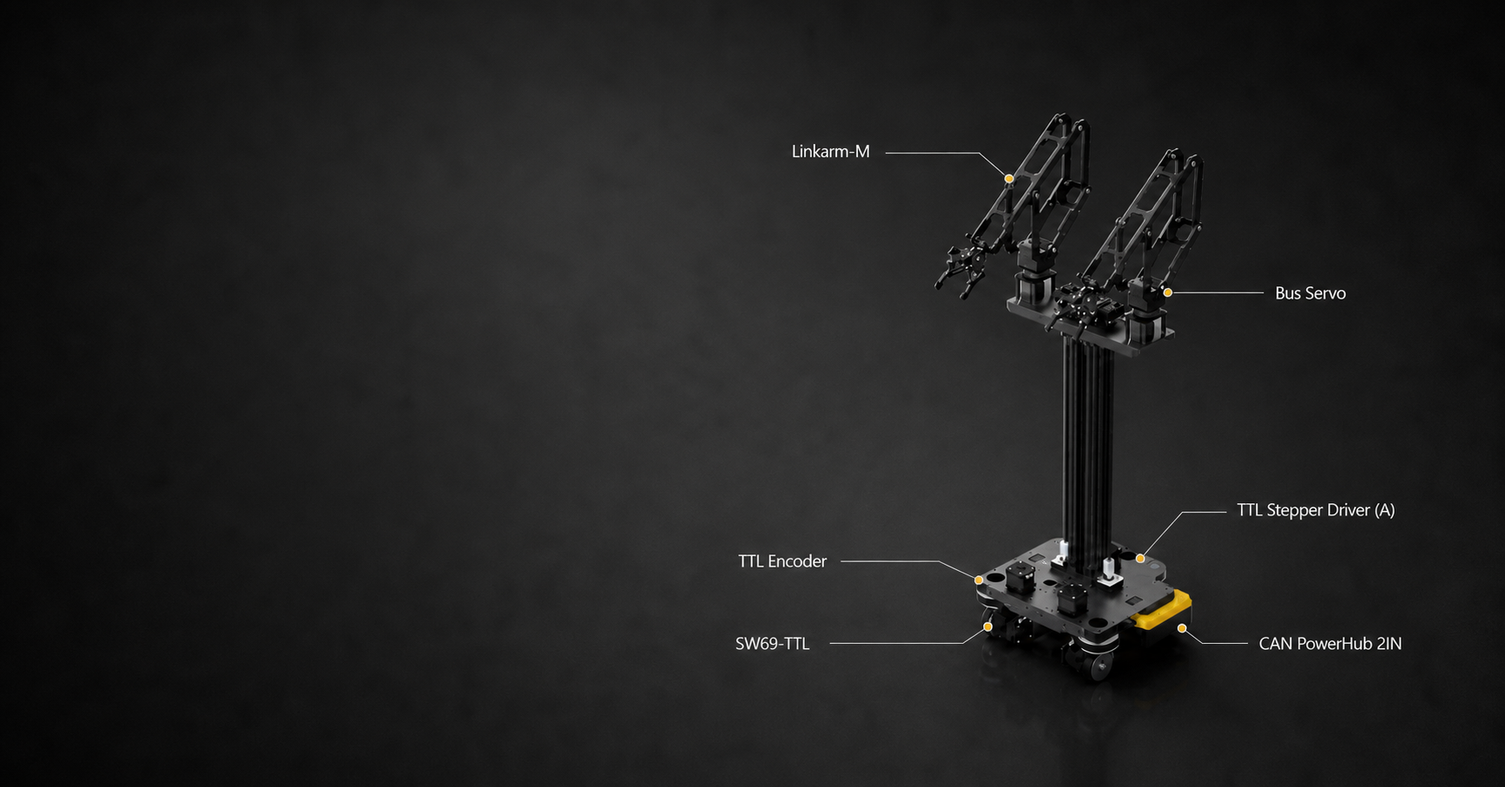
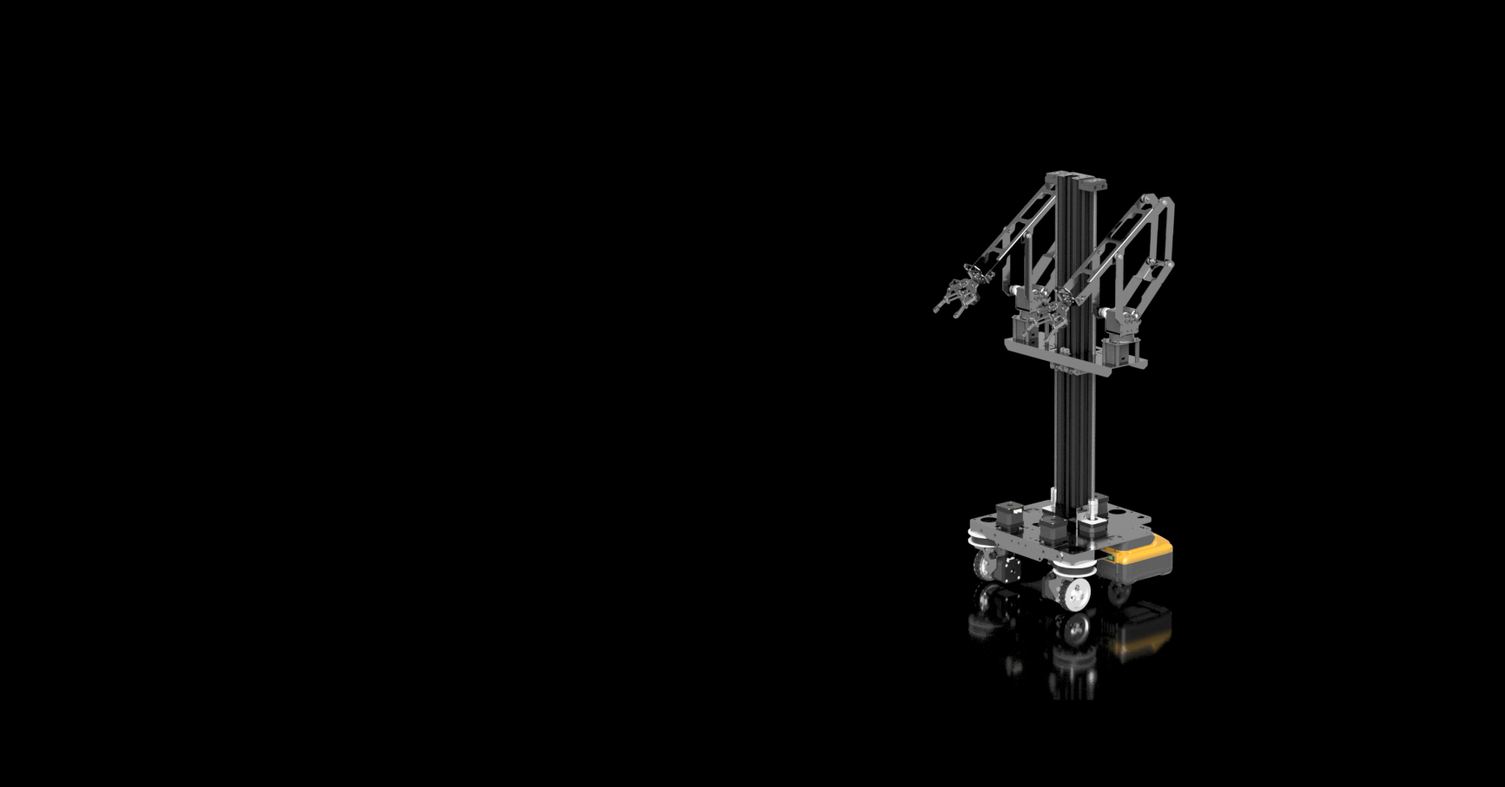
update

diff --git a/public/product-pages/TTL-Adapter-A/en/index.html b/public/product-pages/TTL-Adapter-A/en/index.html
@@ -1,0 +1,198 @@
+<!doctype html>
+<html lang="en">
+<head>
+  <meta charset="utf-8">
+  <meta name="viewport" content="width=device-width, initial-scale=1">
+  <title>TTL Adapter (A) | USB / UART to TTL Bus | LYGION</title>
+  <meta name="description" content="TTL Adapter (A) connects PCs, Raspberry Pi, Jetson, ESP32, and STM32 controllers to single-wire TTL bus servos, encoders, and stepper drivers through USB Type-C or UART.">
+  <meta name="keywords" content="TTL Adapter, TTL bus adapter, TTL servo, TTL Encoder, TTL Stepper Driver, USB to TTL bus, single-wire TTL, grouped power">
+  <link rel="stylesheet" href="../styles.css">
+  <script type="application/ld+json">
+  {
+    "@context": "https://schema.org",
+    "@type": "Product",
+    "name": "TTL Adapter (A)",
+    "brand": { "@type": "Brand", "name": "LYGION" },
+    "description": "A compact USB Type-C and UART adapter for connecting host controllers to single-wire TTL bus devices.",
+    "category": "Robot TTL bus adapter",
+    "image": "https://lygion.ai/product-pages/TTL-Adapter-A/assets/hero.webp"
+  }
+  </script>
+</head>
+<body>
+  <header class="site-header">
+    <div class="container header-inner">
+      <a class="brand" href="https://lygion.ai/en/" aria-label="Return to LYGION home">
+        <span class="brand-mark">LY</span>
+        <span><strong>LYGION</strong><small>Robot hardware and open ecosystem</small></span>
+      </a>
+      <nav aria-label="Page navigation">
+        <a href="#devices">Devices</a>
+        <a href="#connect">Connections</a>
+        <a href="#interfaces">Interfaces</a>
+        <a href="#power-grouping">Power Groups</a>
+        <a href="#specs">Specs</a>
+        <a href="#package">Packages</a>
+        <a class="store-link" href="https://lm36lm9sgacig91fy3g1p7hpkfvgwp7.taobao.com/shop/view_shop.htm" target="_blank" rel="noopener noreferrer">Taobao Store</a>
+        <a class="language-switch" href="../index.html" lang="zh-CN">中文</a>
+        <a class="nav-cta" href="https://lygionorganization.github.io/lygion-wiki/en/reference/bus-devices/ttl-adapter-a/" target="_blank" rel="noopener noreferrer">Product Wiki</a>
+      </nav>
+    </div>
+  </header>
+
+  <main>
+    <section class="hero">
+      <div class="container hero-grid">
+        <div class="hero-copy">
+          <p class="eyebrow">TTL BUS ADAPTER</p>
+          <h1>Connect more devices through one TTL bus</h1>
+          <h3>TTL Adapter (A)</h3>
+          <p class="lead">Connect a host computer or embedded controller through USB or UART. Bus servos, encoders, stepper drivers, and other single-wire TTL devices share one communication link, simplifying robot system integration.</p>
+          <div class="hero-actions">
+            <a class="button primary" href="#connect">Explore connections</a>
+            <a class="button secondary" href="#specs">View specifications</a>
+          </div>
+          <ul class="quick-specs" aria-label="Key specifications">
+            <li><strong>3 Mbps</strong><span>Maximum data rate</span></li>
+            <li><strong>5-25.2 V</strong><span>Wide input voltage</span></li>
+            <li><strong>27 x 35 mm</strong><span>Compact footprint</span></li>
+          </ul>
+        </div>
+        <figure class="hero-media">
+          <img src="../assets/hero.webp" alt="TTL Adapter (A) connected to a TTL bus servo">
+          <figcaption><span>TTL Adapter (A)</span> USB / UART to single-wire TTL bus</figcaption>
+        </figure>
+      </div>
+    </section>
+
+    <section class="proof-strip" aria-label="Product highlights">
+      <div class="container proof-grid">
+        <div><strong>USB Type-C</strong><span>Direct connection for PCs and Linux SBCs</span></div>
+        <div><strong>UART RX / TX</strong><span>For ESP32, STM32, Arduino, and embedded controllers</span></div>
+        <div><strong>Single-wire TTL</strong><span>Connect several compatible bus device types</span></div>
+        <div><strong>USB Debugging</strong><span>Configure supported low-voltage devices over USB</span></div>
+      </div>
+    </section>
+
+    <section id="devices" class="section">
+      <div class="container">
+        <div class="section-heading">
+          <p class="eyebrow">ONE BUS, MORE DEVICES</p>
+          <h2>Designed for a range of TTL bus devices</h2>
+          <p>Any single-wire TTL bus device with compatible protocol and electrical specifications can connect to the host through TTL Adapter (A).</p>
+        </div>
+        <div class="device-grid">
+          <article><span class="device-index">01</span><h3>TTL Bus Servos</h3><p>Control position and speed while reading device feedback.</p><strong>Feetech HLS / STS / SCS series</strong></article>
+          <article><span class="device-index">02</span><h3>TTL Encoders</h3><p>Read joint angle, speed, and encoder status data.</p><strong>Position / speed / status feedback</strong></article>
+          <article><span class="device-index">03</span><h3>TTL Stepper Drivers</h3><p>Add stepper motors to the same control bus.</p><strong>Independent device IDs</strong></article>
+          <article><span class="device-index">04</span><h3>Other TTL Nodes</h3><p>Expand the bus with sensing, actuation, and I/O nodes.</p><strong>One bus for multiple robot modules</strong></article>
+        </div>
+        <figure class="wide-product-media">
+          <img src="../assets/bus-devices.webp" alt="TTL Adapter (A) connected to multiple TTL bus devices">
+          <figcaption>One bus connects servos, encoders, and stepper drivers.</figcaption>
+        </figure>
+      </div>
+    </section>
+
+    <section id="connect" class="section dark-section">
+      <div class="container">
+        <div class="section-heading light-heading">
+          <p class="eyebrow">CONNECT IN TWO STEPS</p>
+          <h2>Reduce robot system complexity</h2>
+          <p>The host does not need a separate wiring path for every device type. One interface can address up to 252 bus devices.</p>
+        </div>
+        <div class="path-grid">
+          <article><span class="path-number">1</span><p class="path-label">HOST SIDE</p><h3>Connect the controller over USB or UART</h3><p>PCs, Raspberry Pi, Jetson, and other Linux SBCs use USB. ESP32, STM32, and Arduino controllers use UART.</p></article>
+          <article><span class="path-number">2</span><p class="path-label">BUS SIDE</p><h3>Control TTL bus devices</h3><p>Assign each device a unique ID and connect a bus supply that matches every device on that power group.</p></article>
+        </div>
+        <div class="platform-row" aria-label="Supported host platforms"><span>PC</span><span>Linux SBC</span><span>Raspberry Pi</span><span>Jetson</span><span>ESP32</span><span>STM32</span></div>
+        <div class="connection-gallery">
+          <figure><img src="../assets/connect-pc.webp" alt="TTL Adapter (A) connected to a PC"><figcaption>PC (Linux / Windows / macOS)</figcaption></figure>
+          <figure><img src="../assets/connect-jetson.webp" alt="TTL Adapter (A) connected to NVIDIA Jetson"><figcaption>Jetson</figcaption></figure>
+          <figure><img src="../assets/connect-raspberry-pi.webp" alt="TTL Adapter (A) connected to Raspberry Pi"><figcaption>Raspberry Pi</figcaption></figure>
+        </div>
+        <figure class="mcu-media"><img src="../assets/connect-mcu.png" alt="MCU UART wiring example for TTL Adapter (A)"><figcaption>Connect MCUs over UART: ESP32, STM32, and Arduino</figcaption></figure>
+      </div>
+    </section>
+
+    <section id="interfaces" class="section soft-section">
+      <div class="container interface-layout">
+        <div>
+          <p class="eyebrow">BOARD RESOURCES</p>
+          <h2>Practical interfaces in a compact board</h2>
+          <div class="interface-list">
+            <div><strong>USB Type-C</strong><span>Host communication, configuration, and firmware updates</span></div>
+            <div><strong>UART RX / TX / GND</strong><span>2.54 mm header for MCU connections</span></div>
+            <div><strong>HX-5264-3P x 2</strong><span>TTL bus communication and device power</span></div>
+            <div><strong>GH1.25-3P x 2</strong><span>Board-to-board TTL communication and power isolation</span></div>
+            <div><strong>DC5521</strong><span>5-25.2 V bus power input</span></div>
+            <div><strong>Status LED</strong><span>Quick visual confirmation of communication status</span></div>
+          </div>
+        </div>
+        <div class="interface-media">
+          <img src="../assets/interfaces.webp" alt="TTL Adapter (A) interface details">
+          <div class="board-gallery"><img src="../assets/board-front.webp" alt="TTL Adapter (A) front view"><img src="../assets/board-back.webp" alt="TTL Adapter (A) back view"></div>
+        </div>
+      </div>
+      <div class="container power-note"><strong>Power reminder</strong><p>USB alone can support communication, configuration, and firmware updates for compatible low-voltage devices. Driving devices requires a bus power supply with a voltage that matches every connected device.</p></div>
+    </section>
+
+    <section id="power-grouping" class="section power-section">
+      <div class="container power-layout">
+        <div class="section-heading">
+          <p class="eyebrow">POWER GROUPING</p>
+          <h2>Support for grouped power supplies</h2>
+          <p>Multi-device systems do not need to share one supply. The board-to-board communication ports can link another TTL Adapter (A) or a Hub Board while keeping device power groups isolated.</p>
+          <a class="text-link" href="https://lygionorganization.github.io/lygion-wiki/en/tutorials/power-grouping-and-decoupling/" target="_blank" rel="noopener noreferrer">Read the power grouping and isolation guide</a>
+        </div>
+        <div class="power-rules">
+          <article><span>COMMUNICATION</span><strong>Shared signal and ground</strong><p>Use Hub Boards when more TTL bus ports are needed.</p></article>
+          <article><span>POWER</span><strong>Independent input per group</strong><p>Separate devices by voltage or current demand.</p></article>
+          <article><span>ISOLATION</span><strong>Do not bridge positive supply rails</strong><p>The inter-board link carries signal and ground only.</p></article>
+          <article class="rule-warning"><span>REQUIRED</span><strong>Every device ID must be unique</strong><p>All groups still share one communication bus and therefore one address space.</p></article>
+        </div>
+      </div>
+      <div class="container power-checklist"><strong>Consider grouping when</strong><span>Device voltages differ</span><span>Startup or stall current is high</span><span>Cables are long</span><span>Independent shutdown is needed</span></div>
+      <figure class="container power-diagram"><img src="../assets/power-groups.png" alt="TTL Adapter (A) multi-board power grouping diagram"></figure>
+    </section>
+
+    <section id="specs" class="section">
+      <div class="container specs-layout">
+        <div>
+          <p class="eyebrow">SPECIFICATIONS</p><h2>Key specifications</h2>
+          <div class="spec-list">
+            <div><span>Host interfaces</span><strong>USB Type-C / UART RX TX</strong></div><div><span>Bus type</span><strong>Single-wire TTL</strong></div><div><span>Maximum data rate</span><strong>3 Mbps</strong></div><div><span>Input voltage</span><strong>5-25.2 V</strong></div><div><span>DC jack rated current</span><strong>7 A</strong></div><div><span>Board size</span><strong>27 x 35 mm</strong></div><div><span>Mounting hole diameter</span><strong>2.1 mm</strong></div><div><span>Mounting hole spacing</span><strong>13 x 20 mm</strong></div>
+          </div>
+        </div>
+        <aside class="why-card"><p class="eyebrow">WHY IT FITS</p><h3>Simple wiring, easy integration</h3><ul><li>Three practical host input methods with no manual switching</li><li>Multi-board links for grouped power and isolation</li><li>Compact footprint for internal robot installation</li><li>Python and C/C++ development guides</li></ul></aside>
+      </div>
+    </section>
+
+    <section id="package" class="section soft-section">
+      <div class="container">
+        <div class="section-heading"><p class="eyebrow">PACKAGE OPTIONS</p><h2>Choose the package that fits your workflow</h2></div>
+        <div class="package-grid">
+          <article><img src="../assets/package-basic.webp" alt="TTL Adapter (A) basic package"><span>PACKAGE 1</span><h3>Basic Package</h3><p>TTL Adapter (A)<br>GH1.25-3P cable</p></article>
+          <article><img src="../assets/package-debug.webp" alt="TTL Adapter (A) debug package"><span>PACKAGE 2</span><h3>Debug Package</h3><p>Basic package<br>USB Type-C data cable</p></article>
+          <article><img src="../assets/package-powered.webp" alt="TTL Adapter (A) powered package"><span>PACKAGE 3</span><h3>Powered Package</h3><p>Debug package<br>12 V 3 A DC5521 supply</p></article>
+        </div>
+        <p class="package-note">The GH1.25-3P cable can be used for board-to-board communication and grouped power supplies.</p>
+      </div>
+    </section>
+
+    <section id="support" class="section">
+      <div class="container support-grid">
+        <div><p class="eyebrow">DEVELOPMENT SUPPORT</p><h2>Documentation for fast integration</h2><p>Use the product Wiki for interface details, configuration tools, SDKs, and development examples.</p></div>
+        <div class="support-items">
+          <a href="https://lygionorganization.github.io/lygion-wiki/en/reference/bus-devices/ttl-adapter-a/" target="_blank" rel="noopener noreferrer"><strong>TTL Adapter (A) Wiki</strong><span>Interfaces, specifications, and wiring</span></a>
+          <a href="https://lygionorganization.github.io/lygion-wiki/en/" target="_blank" rel="noopener noreferrer"><strong>Development Guides</strong><span>Tools, SDKs, and examples</span></a>
+          <a href="https://lygionorganization.github.io/lygion-wiki/en/tutorials/power-grouping-and-decoupling/" target="_blank" rel="noopener noreferrer"><strong>Power Grouping Guide</strong><span>Multiple voltages, high current, and hub links</span></a>
+          <a href="https://lygionorganization.github.io/lygion-wiki/en/reference/bus-devices/ttl-adapter-a/hardware-overview/" target="_blank" rel="noopener noreferrer"><strong>Mechanical Resources</strong><span>STEP model and integration details</span></a>
+        </div>
+      </div>
+      <div class="container cta"><div><strong>Ready to integrate?</strong><span>Start with the TTL Adapter (A) product documentation.</span></div><a class="button primary" href="https://lygionorganization.github.io/lygion-wiki/en/reference/bus-devices/ttl-adapter-a/" target="_blank" rel="noopener noreferrer">Open Product Wiki</a></div>
+    </section>
+  </main>
+  <footer><div class="container"><span>LYGION · TTL Adapter (A)</span><a href="https://lygionorganization.github.io/lygion-wiki/en/reference/bus-devices/ttl-adapter-a/" target="_blank" rel="noopener noreferrer">Product Wiki</a><a href="https://lygion.ai/en/">Back to lygion.ai</a></div></footer>
+</body>
+</html>

diff --git a/public/product-pages/TTL-Adapter-A/index.html b/public/product-pages/TTL-Adapter-A/index.html
@@ -15,7 +15,7 @@
     "brand": { "@type": "Brand", "name": "LYGION 灵影" },
     "description": "通过 USB Type-C 或 UART 将上位机与控制器接入单线 TTL 总线，连接 TTL 舵机、TTL Encoder、TTL Stepper Driver 等设备。",
     "category": "机器人 TTL 总线适配器",
-    "image": "https://lygion.ai/product-pages/TTL-Adapter-A/assets/photo-dev.jpg"
+    "image": "https://lygion.ai/product-pages/TTL-Adapter-A/assets/hero.webp"
   }
   </script>
 </head>
@@ -33,6 +33,8 @@
         <a href="#power-grouping">供电分组</a>
         <a href="#specs">参数</a>
         <a href="#package">套装</a>
+        <a class="store-link" href="https://lm36lm9sgacig91fy3g1p7hpkfvgwp7.taobao.com/shop/view_shop.htm" target="_blank" rel="noopener noreferrer">淘宝店铺</a>
+        <a class="language-switch" href="en/index.html" lang="en">EN</a>
         <a class="nav-cta" href="https://wiki.lygion.ai/reference/bus-devices/ttl-adapter-a/" target="_blank" rel="noopener noreferrer">产品 Wiki</a>
       </nav>
     </div>
@@ -57,8 +59,8 @@
           </ul>
         </div>
         <figure class="hero-media">
-          <img src="assets/photo-dev.jpg" alt="TTL Adapter (A) 连接开发设备的实拍图">
-          <figcaption><span>临时素材</span> 主视觉建议按拍摄清单重新拍摄</figcaption>
+          <img src="assets/hero.webp" alt="TTL Adapter (A) 连接 TTL 总线舵机">
+          <figcaption><span>TTL Adapter (A)</span> USB / UART 接入单线 TTL 总线</figcaption>
         </figure>
       </div>
     </section>
@@ -105,13 +107,17 @@
             <strong>一条总线控制多种机器人模块</strong>
           </article>
         </div>
-        <div class="scene-brief" role="note">
+        <figure class="wide-product-media">
+          <img src="assets/bus-devices.webp" alt="TTL Adapter (A) 连接多种 TTL 总线设备">
+          <figcaption>一条总线连接舵机、编码器与步进驱动器。</figcaption>
+        </figure>
+        <div class="scene-brief asset-complete" role="note">
           <div>
             <p class="eyebrow">待补拍核心画面</p>
             <h3>一条总线，同时连接三类设备</h3>
             <p>画面需同时出现 TTL Adapter、TTL Encoder、TTL Stepper Driver 与 TTL 舵机，线材连接完整，设备标签朝向镜头。</p>
           </div>
-          <span class="brief-status">完整拍摄清单已建立</span>
+          <span class="brief-status">拍摄已完成</span>
         </div>
       </div>
     </section>
@@ -140,6 +146,15 @@
         <div class="platform-row" aria-label="支持的主机平台">
           <span>PC</span><span>Linux SBC</span><span>Raspberry Pi</span><span>Jetson</span><span>ESP32</span><span>STM32</span>
         </div>
+        <div class="connection-gallery">
+          <figure><img src="assets/connect-pc.webp" alt="TTL Adapter (A) 连接 PC"><figcaption>PC (Linux / Windows / macOS)</figcaption></figure>
+          <figure><img src="assets/connect-jetson.webp" alt="TTL Adapter (A) 连接 NVIDIA Jetson"><figcaption>Jetson</figcaption></figure>
+          <figure><img src="assets/connect-raspberry-pi.webp" alt="TTL Adapter (A) 连接 Raspberry Pi"><figcaption>Raspberry Pi</figcaption></figure>
+        </div>
+        <figure class="mcu-media">
+          <img src="assets/connect-mcu.png" alt="TTL Adapter (A) 的 MCU UART 接线示意">
+          <figcaption>可通过 UART 连接 MCU: ESP32, STM32, Arduino</figcaption>
+        </figure>
       </div>
     </section>
 
@@ -158,8 +173,11 @@
           </div>
         </div>
         <div class="interface-media">
-          <img src="assets/photo-dev.jpg" alt="TTL Adapter (A) 接入开发设备的实拍图，接口说明由页面 HTML 呈现">
-          <p><strong>需要补拍：</strong>正面垂直俯拍、背面垂直俯拍、四个 45° 角度。不要在图片中添加箭头和文字，接口名称全部由 HTML 展示。</p>
+          <img src="assets/interfaces.webp" alt="TTL Adapter (A) 接口细节">
+          <div class="board-gallery">
+            <img src="assets/board-front.webp" alt="TTL Adapter (A) 正面">
+            <img src="assets/board-back.webp" alt="TTL Adapter (A) 背面">
+          </div>
         </div>
       </div>
       <div class="container power-note">
@@ -206,6 +224,9 @@
         <span>线缆较长或设备较多</span>
         <span>需要独立断电维护</span>
       </div>
+      <figure class="container power-diagram">
+        <img src="assets/power-groups.png" alt="TTL Adapter (A) 多板分组供电示意图">
+      </figure>
     </section>
 
     <section id="specs" class="section">
@@ -244,11 +265,11 @@
           <h2>套装选择</h2>
         </div>
         <div class="package-grid">
-          <article><span>01</span><h3>基础套装</h3><p>TTL Adapter (A)<br>GH1.25-3P 连接线</p></article>
-          <article><span>02</span><h3>调试套装</h3><p>基础套装<br>USB Type-C 数据线</p></article>
-          <article><span>03</span><h3>上电套装</h3><p>调试套装<br>12V 3A DC5521 电源</p></article>
+          <article><img src="assets/package-basic.webp" alt="TTL Adapter (A) 基础套装"><span>套装一</span><h3>基础套装</h3><p>TTL Adapter (A)<br>GH1.25-3P 连接线</p></article>
+          <article><img src="assets/package-debug.webp" alt="TTL Adapter (A) 调试套装"><span>套装二</span><h3>调试套装</h3><p>基础套装<br>USB Type-C 数据线</p></article>
+          <article><img src="assets/package-powered.webp" alt="TTL Adapter (A) 上电套装"><span>套装三</span><h3>上电套装</h3><p>调试套装<br>12V 3A DC5521 电源</p></article>
         </div>
-        <p class="package-note">套装内容以实际销售页面为准。新套装图需采用相同视角、相同间距拍摄，不在图片内标注文字。</p>
+        <p class="package-note">GH1.25-3P 连接线可用于板间通信/分组供电</p>
       </div>
     </section>
 

diff --git a/public/product-pages/TTL-Adapter-A/styles.css b/public/product-pages/TTL-Adapter-A/styles.css
@@ -32,6 +32,8 @@ nav a { padding: 9px 11px; border-radius: 8px; font-size: 14px; }
 nav a:hover { background: var(--soft); color: var(--blue); }
 nav .nav-cta { margin-left: 5px; background: var(--blue); color: #fff; }
 nav .nav-cta:hover { background: var(--blue-dark); color: #fff; }
+.language-switch { border: 1px solid #bac8d3; font-weight: 800; }
+.store-link { color: var(--blue); font-weight: 800; }
 
 .hero { padding: 92px 0 74px; overflow: hidden; background: linear-gradient(135deg, #f7fafc 0%, #edf5fa 60%, #fff 100%); }
 .hero-grid { display: grid; grid-template-columns: minmax(0, .93fr) minmax(420px, 1.07fr); align-items: center; gap: 64px; }
@@ -74,6 +76,10 @@ h3 { margin-bottom: 8px; font-size: 21px; line-height: 1.35; }
 .device-grid p { color: var(--muted); }
 .device-grid article > strong { margin-top: auto; padding-top: 18px; border-top: 1px solid var(--line); font-size: 13px; }
 .scene-brief { display: flex; align-items: center; justify-content: space-between; gap: 30px; margin-top: 22px; padding: 32px; border: 1px dashed #9aabb8; border-radius: var(--radius); background: #f8fbfd; }
+.wide-product-media { margin: 28px 0 0; overflow: hidden; border-radius: var(--radius); background: var(--soft); }
+.wide-product-media img { width: 100%; aspect-ratio: 3 / 2; object-fit: cover; }
+.wide-product-media figcaption { padding: 12px 16px; color: var(--muted); font-size: 13px; }
+.asset-complete { display: none; }
 .scene-brief p:last-child { max-width: 720px; margin-bottom: 0; color: var(--muted); }
 .brief-status { flex: 0 0 auto; color: var(--blue); font-weight: 800; }
 
@@ -87,6 +93,13 @@ h3 { margin-bottom: 8px; font-size: 21px; line-height: 1.35; }
 .path-grid article > p:last-child { max-width: 460px; color: #c5d0d9; }
 .platform-row { display: flex; flex-wrap: wrap; gap: 10px; margin-top: 22px; }
 .platform-row span { padding: 8px 13px; border: 1px solid rgba(255,255,255,.17); border-radius: 999px; color: #d7e0e7; font-size: 13px; }
+.connection-gallery { display: grid; grid-template-columns: repeat(3, 1fr); gap: 14px; margin-top: 32px; }
+.connection-gallery figure { margin: 0; overflow: hidden; border: 1px solid rgba(255,255,255,.16); border-radius: var(--radius); background: rgba(255,255,255,.055); }
+.connection-gallery img { width: 100%; aspect-ratio: 3 / 2; object-fit: cover; }
+.connection-gallery figcaption { padding: 10px 14px; color: #d7e0e7; font-size: 13px; }
+.mcu-media { width: fit-content; max-width: 100%; margin: 24px auto 0; padding: 14px; border: 1px solid rgba(255,255,255,.16); border-radius: 12px; background: #fff; color: var(--muted); text-align: center; }
+.mcu-media img { width: 283px; max-width: 100%; height: auto; }
+.mcu-media figcaption { max-width: 360px; margin-top: 8px; font-size: 12px; }
 
 .interface-layout { display: grid; grid-template-columns: 1.08fr .92fr; gap: 54px; align-items: center; }
 .interface-list { display: grid; grid-template-columns: repeat(2, 1fr); gap: 12px; margin-top: 28px; }
@@ -97,6 +110,8 @@ h3 { margin-bottom: 8px; font-size: 21px; line-height: 1.35; }
 .interface-media { padding: 18px; border: 1px solid var(--line); border-radius: var(--radius); background: #fff; box-shadow: var(--shadow); }
 .interface-media img { width: 100%; aspect-ratio: 4 / 3; border-radius: 10px; object-fit: contain; background: #f7f8f9; }
 .interface-media p { margin: 14px 4px 2px; color: var(--muted); font-size: 13px; }
+.board-gallery { display: grid; grid-template-columns: repeat(2, 1fr); gap: 10px; margin-top: 10px; }
+.board-gallery img { aspect-ratio: 3 / 2; object-fit: cover; }
 .power-note { display: grid; grid-template-columns: 150px 1fr; gap: 24px; margin-top: 30px; padding: 22px 26px; border-left: 4px solid var(--blue); background: #fff; }
 .power-note p { margin: 0; color: var(--muted); }
 
@@ -119,6 +134,8 @@ h3 { margin-bottom: 8px; font-size: 21px; line-height: 1.35; }
 .power-checklist { display: flex; flex-wrap: wrap; align-items: center; gap: 10px; margin-top: 28px; }
 .power-checklist strong { margin-right: 8px; }
 .power-checklist span { padding: 8px 12px; border: 1px solid rgba(255,255,255,.16); border-radius: 999px; color: #d5e0e8; font-size: 13px; }
+.power-diagram { margin-top: 32px; padding: 18px; border-radius: var(--radius); background: #fff; }
+.power-diagram img { width: min(100%, 960px); margin: 0 auto; }
 .dark-link { color: #8fcbff; font-weight: 800; text-decoration: underline; text-underline-offset: 3px; }
 
 .specs-layout { display: grid; grid-template-columns: 1.15fr .85fr; gap: 48px; align-items: start; }
@@ -131,6 +148,7 @@ h3 { margin-bottom: 8px; font-size: 21px; line-height: 1.35; }
 
 .package-grid { display: grid; grid-template-columns: repeat(3, 1fr); gap: 16px; }
 .package-grid article { padding: 28px; border: 1px solid var(--line); border-radius: var(--radius); background: #fff; }
+.package-grid article > img { width: calc(100% + 56px); max-width: none; aspect-ratio: 3 / 2; margin: -28px -28px 22px; border-radius: var(--radius) var(--radius) 0 0; object-fit: cover; }
 .package-grid article > span { color: var(--blue); font-size: 13px; font-weight: 850; }
 .package-grid h3 { margin-top: 28px; }
 .package-grid p { margin-bottom: 0; color: var(--muted); }
@@ -167,7 +185,7 @@ footer a { color: var(--blue); }
   h1 { font-size: 42px; }
   h2 { font-size: 32px; }
   .lead { max-width: 100%; font-size: 16px; word-break: break-all; }
-  .quick-specs, .device-grid, .proof-grid, .path-grid, .interface-list, .power-rules, .package-grid, .support-items { grid-template-columns: 1fr; }
+  .quick-specs, .device-grid, .proof-grid, .path-grid, .interface-list, .power-rules, .package-grid, .support-items, .connection-gallery { grid-template-columns: 1fr; }
   .proof-grid div, .proof-grid div:first-child, .proof-grid div:nth-child(3) { border-left: 0; border-right: 0; border-bottom: 1px solid var(--line); }
   .proof-grid div:last-child { border-bottom: 0; }
   .section { padding: 70px 0; }

diff --git a/src/data/products.ts b/src/data/products.ts
@@ -349,12 +349,12 @@ export const products: Product[] = [
     slug: "ttl-adapter-a",
     module: "bus-devices",
     status: "available",
-    image: "/product-pages/TTL-Adapter-A/assets/hero.jpg",
+    image: "/product-pages/TTL-Adapter-A/assets/hero-2.webp",
     detailPath: "/product-pages/TTL-Adapter-A/index.html",
-    name: { zh: "TTL Adapter (A) 总线舵机驱动板", en: "TTL Adapter (A) Bus Servo Adapter" },
+    name: { zh: "TTL Adapter (A) 总线设备驱动板", en: "TTL Adapter (A) Bus Devices Adapter" },
     summary: {
-      zh: "支持 USB Type-C、UART RX/TX 与单线 TTL 接入的超小型 TTL 总线舵机通信模块。",
-      en: "A compact TTL bus servo adapter supporting USB Type-C, UART RX/TX, and single-wire TTL control."
+      zh: "支持 USB Type-C、UART RX/TX 与单线 TTL 接入的超小型 TTL 总线设备通信模块。",
+      en: "A compact TTL bus devices adapter supporting USB Type-C, UART RX/TX, and single-wire TTL control."
     },
     description: {
       zh: "面向机器人原型、嵌入式控制和多舵机系统集成，兼顾调试、通信、供电和系统扩展。",
